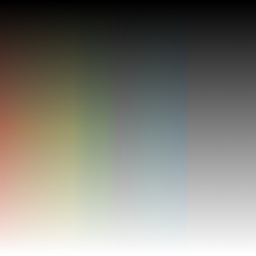
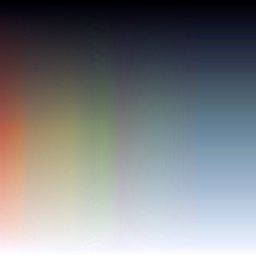
Changed False Color LUT to be less yellow-ish and added Thermal / Radiance Offset Tunning

Changed region(s): [[0.75, 0.4688, 1.0, 0.7188]]

diff --git a/XRIT/Tools/Presets.cs b/XRIT/Tools/Presets.cs
@@ -7,6 +7,20 @@ using System.Drawing;
 namespace OpenSatelliteProject {
     public static class Presets {
 
+        /// <summary>
+        /// Gets or sets the Thermal Offset
+        /// This value should be between -127 and +127, it is added to the Thermal Channel value.
+        /// </summary>
+        /// <value>The thermal offset.</value>
+        public static int ThermalOffset { get; set; }
+
+        /// <summary>
+        /// Gets or sets the radiance offset.
+        /// This value should be between -127 and +127, it is added to the Visible Channel value.
+        /// </summary>
+        /// <value>The radiance offset.</value>
+        public static int RadianceOffset { get; set; }
+
         #region Intensity Curves
         /// <summary>
         /// Value Curve for False Color Visible
@@ -135,10 +149,14 @@ namespace OpenSatelliteProject {
             } else {
                 UIConsole.Error ("Cannot load file falsecolor.png from resources");
             }
+            RadianceOffset = 0;
+            ThermalOffset = 0;
         }
 
         public static int FalseColorLUTVal(byte thermal, byte visible) {
-            return FalseColorLUT [visible * 256 + thermal];
+            byte thermalFix = (byte) Math.Max(Math.Min (thermal + ThermalOffset, 255), 0);
+            byte radianceFix = (byte)Math.Max (Math.Min (visible + RadianceOffset, 255), 0);
+            return FalseColorLUT [radianceFix * 256 + thermalFix];
         }
 
         private static readonly IDictionary<string, string> _mappings = new Dictionary<string, string>(StringComparer.InvariantCultureIgnoreCase) {

diff --git a/XRIT/Properties/LibInfo.cs b/XRIT/Properties/LibInfo.cs
@@ -39,6 +39,30 @@ namespace OpenSatelliteProject {
         public static string[] ArrayLogLines { get { return _gitlog.Split ('\n'); } }
         public static string LogLines { get { return _gitlog; } } 
 
+        public static int VersionMajor {
+            get {
+                return typeof(LibInfo).Assembly.GetName ().Version.Major;
+            }
+        }
+
+        public static int VersionMinor {
+            get {
+                return typeof(LibInfo).Assembly.GetName ().Version.Minor;
+            }
+        }
+
+        public static int VersionBuild {
+            get {
+                return typeof(LibInfo).Assembly.GetName ().Version.Build;
+            }
+        }
+
+        public static int VersionRevision {
+            get {
+                return typeof(LibInfo).Assembly.GetName ().Version.Revision;
+            }
+        }
+
         public static string Version {
             get {
                 return string.Format("{0}.{1}.{2}.{3}", 

diff --git a/LibraryTest/Program.cs b/LibraryTest/Program.cs
@@ -90,6 +90,9 @@ namespace LibraryTest {
             UIConsole.GlobalEnableDebug = true;
             var shapeFile = ShapeFiles.InitShapeFiles ();
 
+            //bmp.Save(filename + "-orig.png", ImageFormat.Png);
+            //vbmp.Save(visFilename + "-orig.png", ImageFormat.Png);
+
             var mapDrawer = new MapDrawer(shapeFile);
             //ImageTools.DrawLatLonLines(ref bmp, gc, Color.Brown);
             ImageTools.ApplyCurve (OpenSatelliteProject.Presets.NEW_VIS_FALSE_CURVE, ref vbmp);
@@ -105,7 +108,7 @@ namespace LibraryTest {
 
             Console.WriteLine ($"Took {delta} ms to generate map.");
 
-            vbmp.Save(visFilename + ".png", ImageFormat.Png);
+            vbmp.Save(visFilename + ".jpg", ImageFormat.Jpeg);
 
             Bitmap landMap = mapDrawer.GenerateLandMap (gc, bmp.Width, bmp.Height);
             landMap.Save(filename + "-landmap.jpg", ImageFormat.Jpeg);
